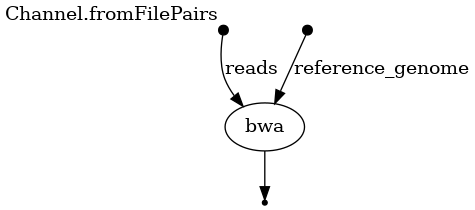
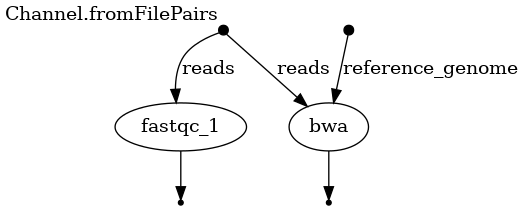
Initial FastQC added

diff --git a/bin/parse_fastqc_output.py b/bin/parse_fastqc_output.py
@@ -1,0 +1,106 @@
+#!/usr/bin/env python3
+'''
+Skrypt do parsowania pliku fastqc_data.txt. skrypt zwraca nastepujace informacje
+1. wynik kazdego z testow PASS/FAILED
+2. czy sa pozycje w ktorych 10th percentyl byl ponizej 30, jesli tak to ktore
+3. jaki byl tile z najgorsza quality + wartosc
+4. Czy jest taka overexpressed sequence ktora nie jest 'No Hit'. Jrsli tak to jaka jest to sekwencja
+i jaki ma procent
+
+w pliku fastqc_data.txt kolejne testy rozdzielone sa ">>"
+'''
+
+import sys
+import os
+import numpy as np
+from typing import Dict, List, Any
+
+start = 0
+with open(sys.argv[1]) as f:
+    failed_tests = 0
+    passed_tests = 0
+    bad_bases = []
+    bad_bases_score = []
+    bad_tiles: Dict[str, List[Any]] = {}
+    overexpressed_seq = ''
+    overexpressed_seq_count = 0
+    overexpressed_seq_source = ''
+    total_sequences = 0
+    sequences_length = 0
+    min_quality = sys.argv[2]
+
+    for line in f:
+        line = line.split('\t')
+        if ">>" in line[0] and start == 0:
+            statistics_name=line[0].strip('>>')
+            statistics_outcome=line[1].rsplit()[0]
+            if statistics_outcome == 'pass':
+                passed_tests += 1
+            else:
+                failed_tests += 1
+            start = 1
+        elif ">>" in line[0] and start == 1:
+            start = 0
+            print(f'{statistics_name}\t{statistics_outcome}')
+            if 'Per base sequence quality' == statistics_name:
+                if len(bad_bases) == 0:
+                    print("\tPoor bases\tNone\n")
+                    print("\tPoor bases score\tNone\n")
+                else:
+                    print("\tPoor bases\t" + ";".join(map(str, [a[0] for a in sorted(zip(bad_bases, bad_bases_score), key=lambda x: x[1])])))
+                    print("\tPoor bases score\t" + ";".join(map(str, [a[1] for a in sorted(zip(bad_bases, bad_bases_score), key=lambda x: x[1])])))
+            elif  'Per tile sequence quality' == statistics_name:
+                worst_tile = sorted(bad_tiles, key=lambda x: np.mean(bad_tiles[x]))[0]
+                worst_tile_score = np.min([np.mean(x) for x in bad_tiles.values()])
+                if len(bad_tiles) == 0:
+                    print(f'\tWorst tile:\tNone')
+                    print(f'\tWorst tile score:\tNone')
+                else:
+                    print(f'\tWorst tile:\t{worst_tile}')
+                    print(f'\tWorst tile score:\t{worst_tile_score}')
+            elif 'Overrepresented sequences' == statistics_name:
+                print(f'\tSequence:\t{overexpressed_seq}')
+                print(f'\tCount:\t{overexpressed_seq_count}')
+                print(f'\tSource:\t{overexpressed_seq_source}')
+            elif 'Basic Statistics' == statistics_name:
+                print(f'\tTotal Sequences:\t{total_sequences}')
+                print(f'\tSequence length:\t{sequences_length}')
+            continue
+        elif start == 1:
+            if 'Per base sequence quality' == statistics_name:
+                try:
+                    if float(line[5]) < min_quality:
+                        bad_bases.append(line[0])
+                        bad_bases_score.append(float(line[5]))
+                except:
+                    # to bedzie ten naglowkowy wiersz
+                    pass
+            elif 'Per tile sequence quality' == statistics_name:
+                try:
+                    float(line[2])
+                    if line[0] not in bad_tiles.keys():
+                        bad_tiles[line[0]] = []
+                        bad_tiles[line[0]].append(float(line[2]))
+                    else:
+                        bad_tiles[line[0]].append(float(line[2]))
+                except:
+                    #ponownie naglowek
+                    pass
+            elif 'Overrepresented sequences' == statistics_name:
+                try:
+                    if float(line[1]) > overexpressed_seq_count:
+                        # podmianka w stosunku do wczesniejszej wersji sekwencje "No Hit" tez dajemy
+                        # choc to pewnie tylko artefakt amplikownow
+                        overexpressed_seq = line[0]
+                        overexpressed_seq_count = line[1]
+                        overexpressed_seq_source = line[3].rstrip()
+                except:
+                    pass
+            elif 'Basic Statistics' == statistics_name:
+                if line[0] == 'Total Sequences':
+                    total_sequences = line[1].rstrip()
+                elif line[0] == 'Sequence length':
+                    sequences_length = line[1].rstrip()
+
+print(f'Total no. of passed tests:\t{passed_tests}')
+print(f'Total no. of failed tests:\t{failed_tests}')
